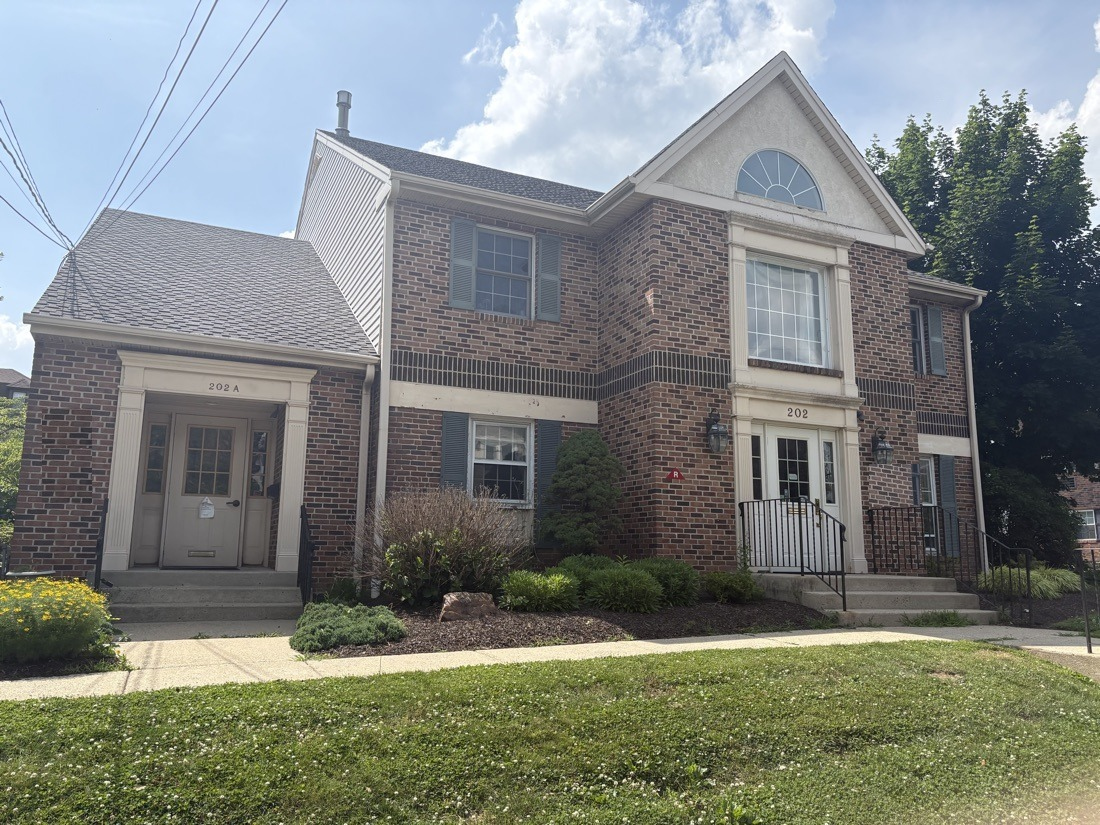
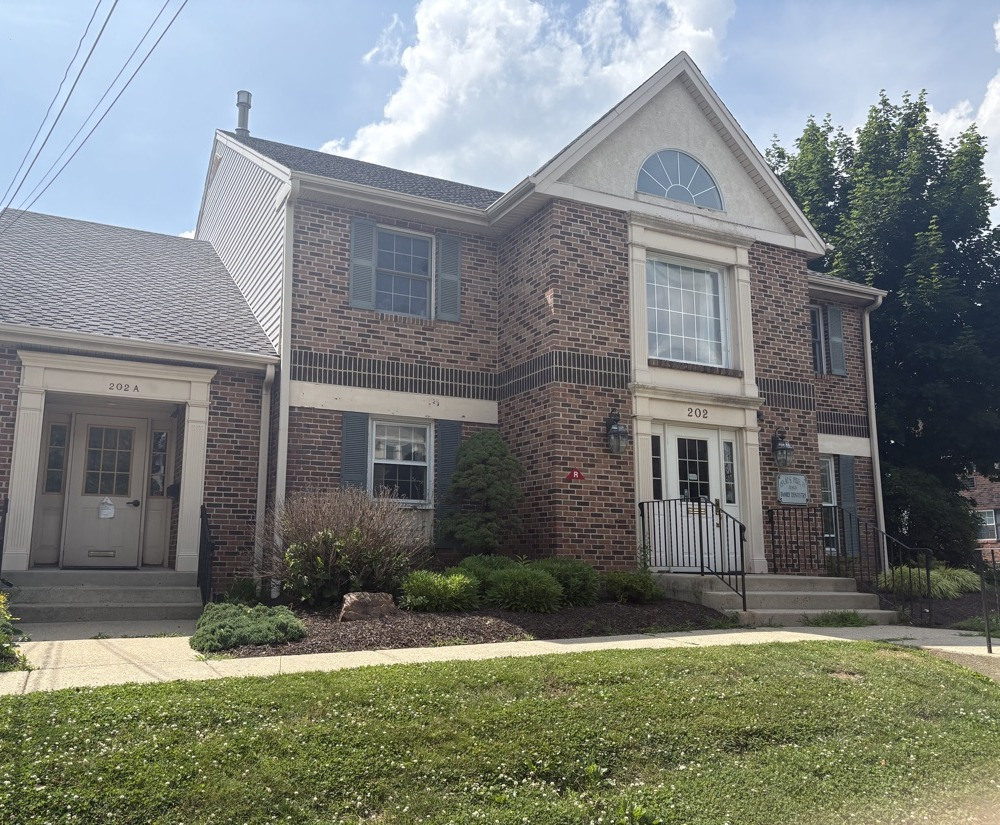
Exterior photo: simple left crop per Matt — signs by 202A out, wide framing kept

diff --git a/index.html b/index.html
@@ -694,9 +694,9 @@
               <span class="office-carousel__cap">Therapy Room</span>
             </li>
             <li class="office-carousel__slide">
-              <img src="assets/photos/office-exterior.jpg?v=202b" class="office-carousel__img--exterior"
+              <img src="assets/photos/office-exterior.jpg?v=202c" class="office-carousel__img--exterior"
                    alt="Exterior of the office building at 202-A North Monroe Street, Media, PA — the 202A door is the entrance"
-                   width="1100" height="825" loading="lazy" />
+                   width="1000" height="825" loading="lazy" />
               <span class="office-carousel__cap">202-A North Monroe St</span>
             </li>
           </ul>

diff --git a/CHANGELOG-AGENT.md b/CHANGELOG-AGENT.md
@@ -243,3 +243,8 @@ Playwright regression sweep across 375/414/768/1440px viewports. Read-only. QA-C
 - Matt: the 760x530 recrop felt "too zoomed in." Restored the ORIGINAL full 1100x825 composition and instead digitally removed both sign boards (left 202A plaques + right dentistry plaque) by cloning adjacent brick — verified seamless at web scale; lantern + railing untouched. Both door numbers still clearly visible.
 - index.html: ?v=202a → ?v=202b, width/height attrs back to 1100x825. object-position:left 55% kept so mobile still anchors to the 202A wing.
 - Note for later: when Laura's business gets added to the building signage, swap back to an unretouched photo (original preserved in the July 17 session scratchpad).
+
+2026-07-18 — exterior photo v3: simple left crop (per Matt)
+- Matt spotted misaligned brick rows in the retouch — replaced with his suggested approach: plain crop of the ORIGINAL, trimming only the left 100px (1100x825 → 1000x825). The 202A-door sign plaques are out of frame, "202 A" number clearly visible, composition stays wide (no zoomed-in feel).
+- NOTE: the small dentistry plaque beside the 202 entrance (right side) remains in frame — Matt's instruction was to crop out "the sign" by 202A; flagged to him in case Laura wants the right plaque gone too (that requires the tighter crop rejected earlier).
+- index.html: ?v=202b → ?v=202c, width/height 1000x825.
